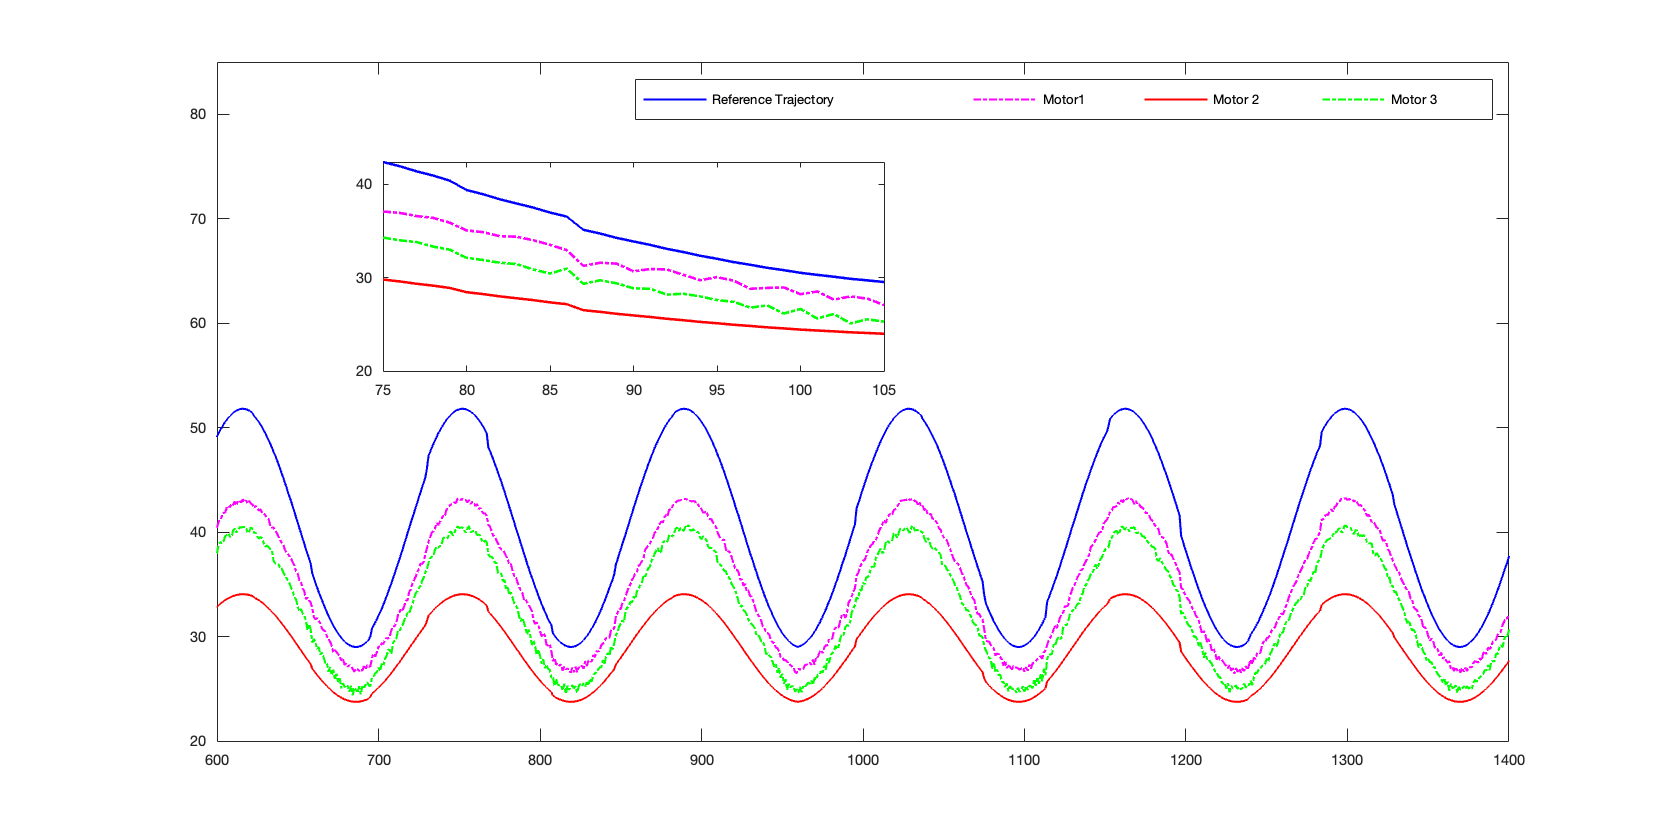
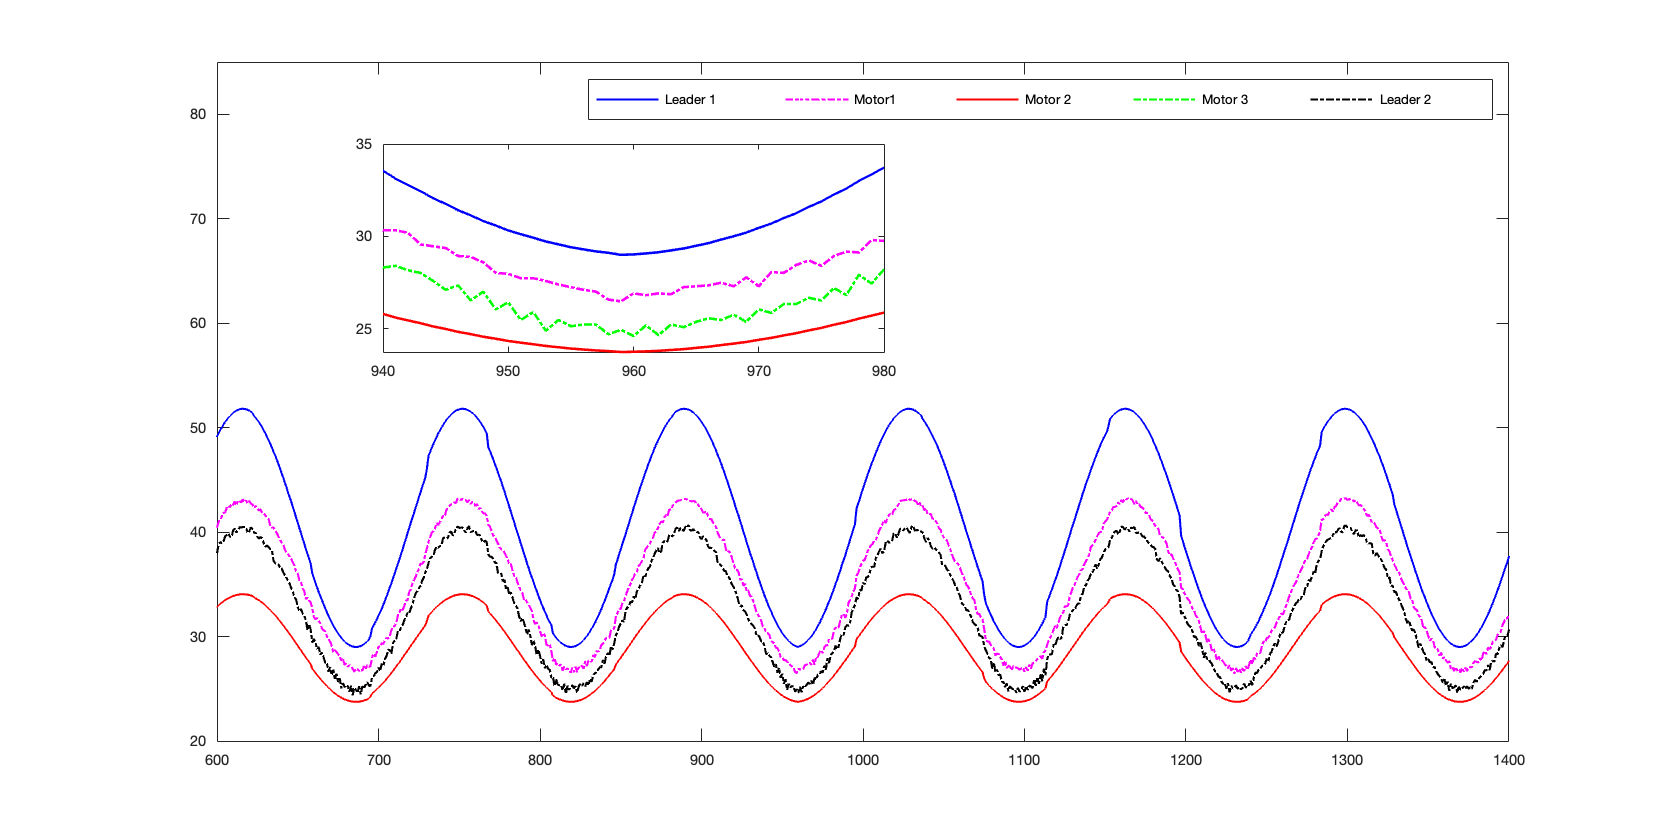
asd

diff --git a/dataplot.m b/dataplot.m
@@ -12,6 +12,7 @@ ch3_data_match = regexp(file_content, 'CH3_Data_OutPut\[\d+\]=\{(.*?)\};', 'toke
 ch1_data_match = regexp(file_content, 'CH1_Data_OutPut\[\d+\]=\{(.*?)\};', 'tokens', 'dotall');
 ch2_data_match = regexp(file_content, 'CH2_Data_OutPut\[\d+\]=\{(.*?)\};', 'tokens', 'dotall');
 ch4_data_match = regexp(file_content, 'CH4_Data_OutPut\[\d+\]=\{(.*?)\};', 'tokens', 'dotall');
+ch5_data_match = regexp(file_content, 'CH4_Data_OutPut\[\d+\]=\{(.*?)\};', 'tokens', 'dotall');
 
 if ~isempty(ch3_data_match) && ~isempty(ch1_data_match) && ~isempty(ch2_data_match) && ~isempty(ch4_data_match)
     % Convert the extracted data to numerical arrays
@@ -19,6 +20,7 @@ if ~isempty(ch3_data_match) && ~isempty(ch1_data_match) && ~isempty(ch2_data_mat
     ch1_data = str2num(ch1_data_match{1}{1});
     ch2_data = str2num(ch2_data_match{1}{1});
     ch4_data = str2num(ch4_data_match{1}{1});
+    ch5_data = str2num(ch5_data_match{1}{1});
     
     % Calculate distributed errors (xi)
     xi1 = ch2_data - ch1_data; % Error for Motor 1
@@ -37,11 +39,13 @@ if ~isempty(ch3_data_match) && ~isempty(ch1_data_match) && ~isempty(ch2_data_mat
     
     % Plot the data
     figure('Position', [100, 100, 800, 400]);
-    plot(ch2_data, '-', 'LineWidth', 2, 'Color', 'blue', 'MarkerSize', 4.5, 'DisplayName', 'Reference Trajectory');
+    plot(ch2_data, '-', 'LineWidth', 2, 'Color', 'blue', 'MarkerSize', 4.5, 'DisplayName', 'Leader 1');
     hold on;
     plot(ch1_data, '-.m', 'LineWidth', 2, 'MarkerSize', 5.5, 'DisplayName', 'Motor1');
     plot(ch3_data, '-', 'LineWidth', 2, 'Color', 'red', 'MarkerSize', 2.5, 'DisplayName', 'Motor 2');
     plot(ch4_data, '-.', 'LineWidth', 2, 'Color', 'green', 'MarkerSize', 0.5, 'DisplayName', 'Motor 3');
+
+    plot(ch5_data, '-.', 'LineWidth', 2, 'Color', 'black', 'MarkerSize', 0.5, 'DisplayName', 'Leader 2');
     hold off;
     
     % Set plot limits and labels
@@ -55,9 +59,9 @@ if ~isempty(ch3_data_match) && ~isempty(ch1_data_match) && ~isempty(ch2_data_mat
     % Add legend
     legend('show','orientation','horizontal');
 
-    zoom_x_start = 75; % Start of zoomed x-range
-    zoom_x_end = 105; % End of zoomed x-range
-    axes('Position', [0.23,0.555,0.30,0.25]);
+    zoom_x_start = 940; % Start of zoomed x-range
+    zoom_x_end = 980; % End of zoomed x-range
+    axes('Position', [0.23,0.577,0.30,0.25]);
     box on; hold on;
     plot(ch2_data, '-b', 'LineWidth', 2.5);
     plot(ch1_data, '-.m', 'LineWidth', 2.5);
